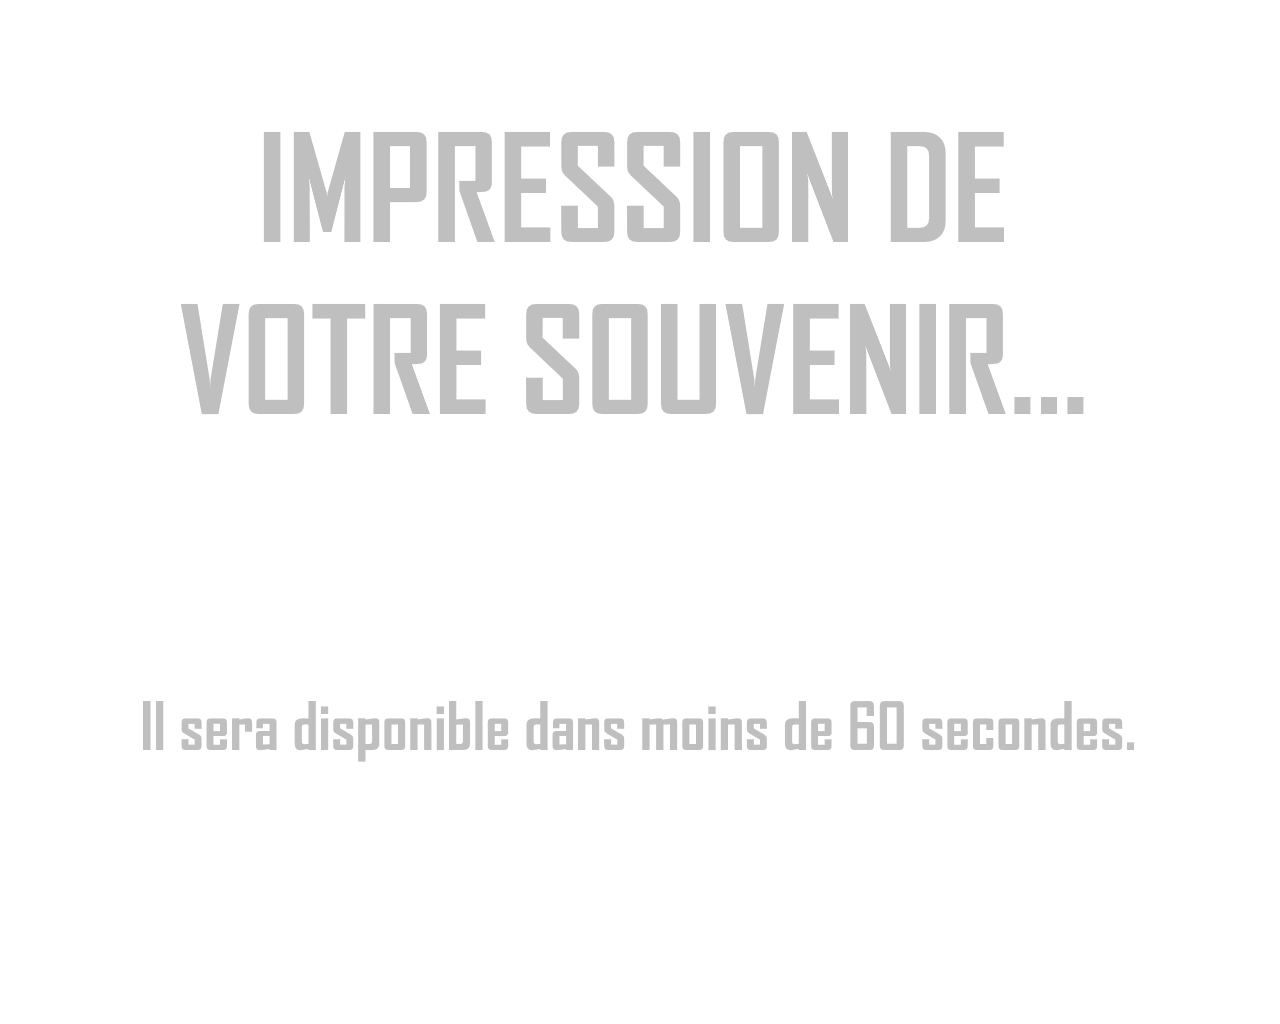
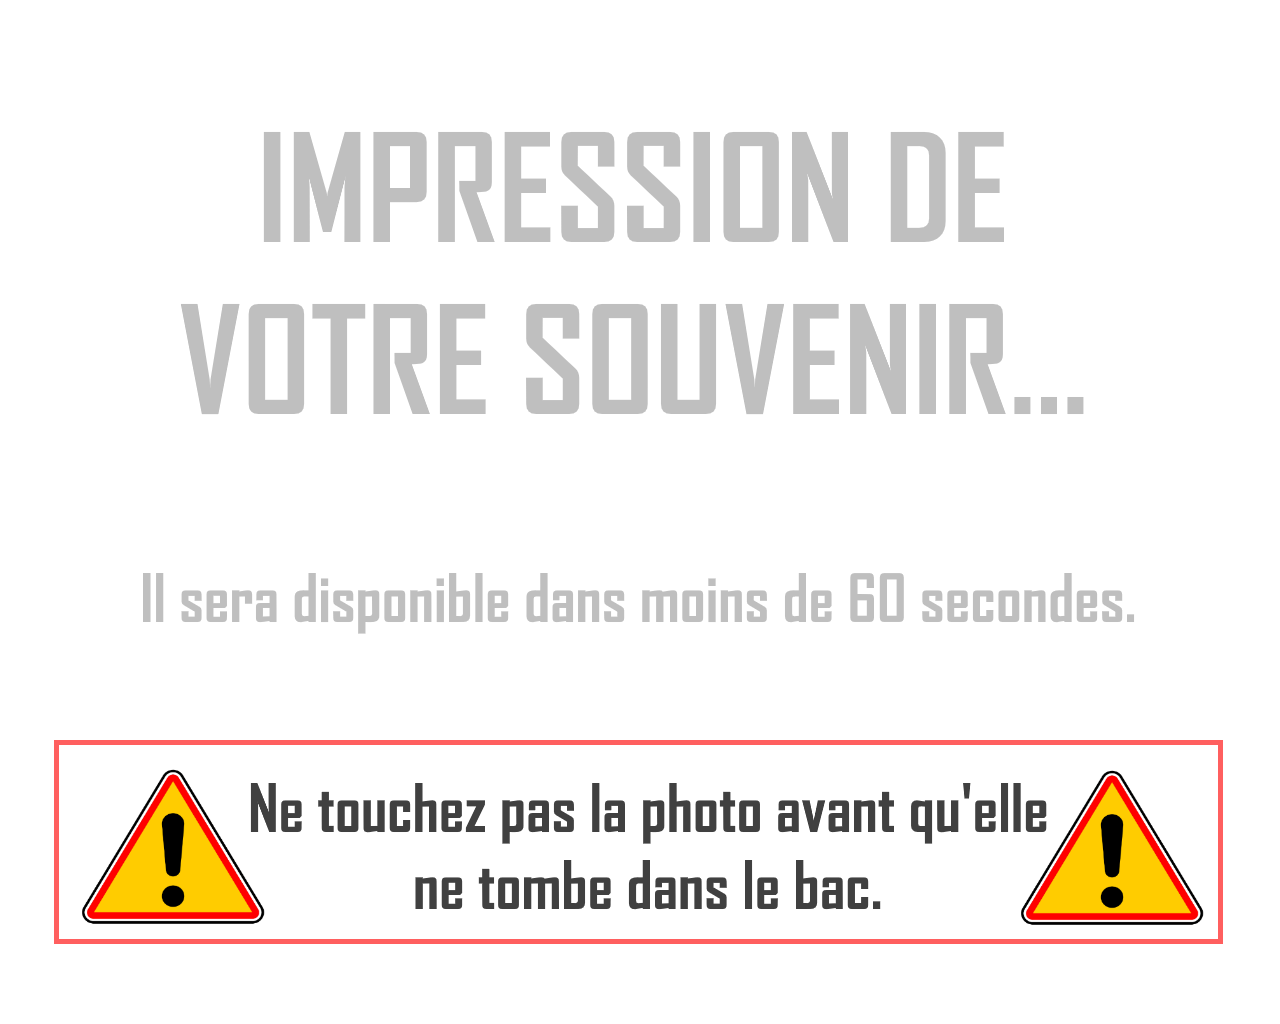
New warning for printing. Tell user to not touch paper.

Changed region(s): [[0.0312, 0.6875, 0.9688, 0.9375], [0.0938, 0.5625, 0.875, 0.625]]

diff --git a/photobooth.py b/photobooth.py
@@ -2444,7 +2444,6 @@ class MainWindow(QMainWindow):
                 self.showPrintSentPage()
                 self.wait(5)
 
-
             else:
 
                 self.resources.logger.addError("NEW JOB PRINT : " + self.currentAssemblyPath + "file does not exists")
@@ -2453,6 +2452,7 @@ class MainWindow(QMainWindow):
         except:
             self.resources.logger.addError("sendPrintingJob EXCEPTION")
 
+        self.wait(5)
         self.gotoStart()
 
     def cancelNotCompletedJobs(self):
